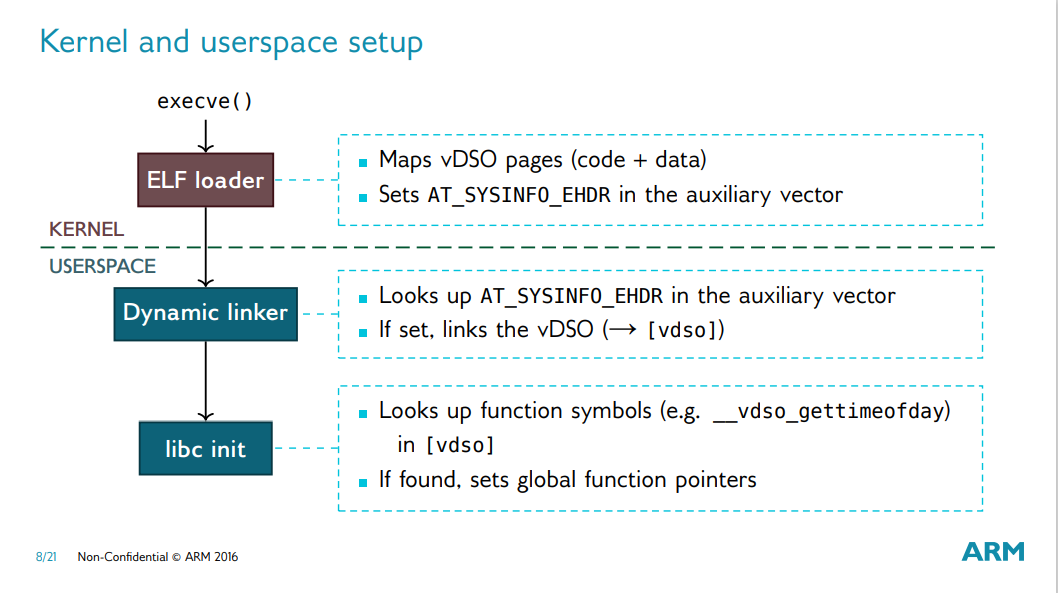
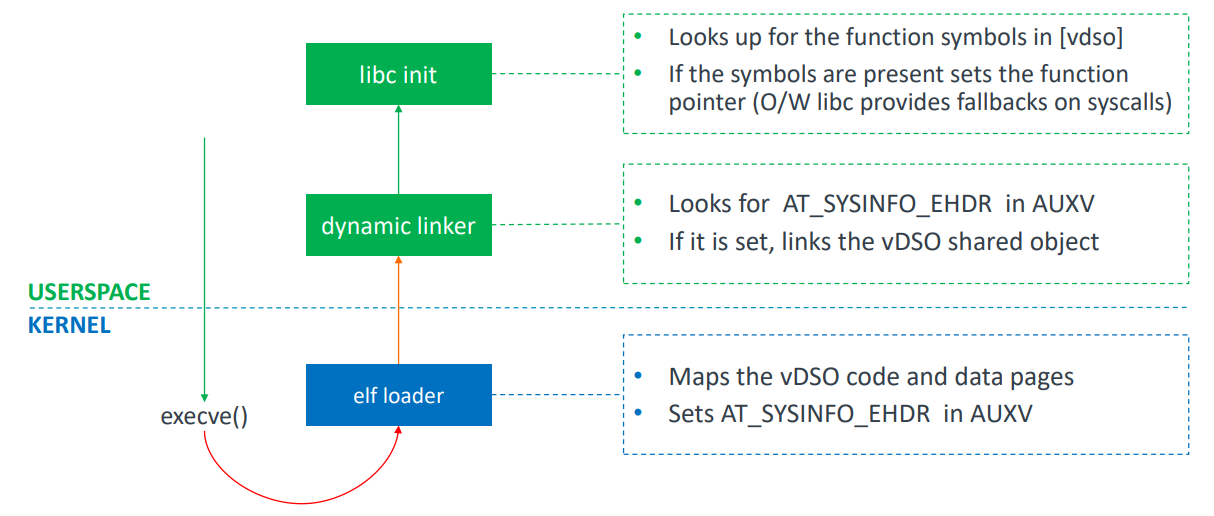
update vdso

diff --git a/content/post/RISC-V_vdso_2/index.md b/content/post/RISC-V_vdso_2/index.md
@@ -12,7 +12,7 @@ projects: []
 date: '2022-07-20T00:00:00Z'
 
 # Date updated
-lastmod: '2022-07-21T11:30:00Z'
+lastmod: '2022-07-25T11:30:00Z'
 
 # Is this an unpublished draft?
 draft: false
@@ -238,21 +238,251 @@ Symbol table '.dynsym' contains 9 entries:
      8: 0000000000000c68    10 FUNC    GLOBAL DEFAULT   11 __vdso_getcpu@@LINUX_4.15
 ```
 
+## vDSO 初始化
+
+vDSO 的初始化按照触发时机可以分为两部分：
+* 内核启动时初始化
+* 用户进程启动时初始化
+
+### 内核启动时初始化
+
+内核启动时初始化的主要是 `vdso_info` 这个内核对象。顾名思义，`vdso_info` 存储的是 vDSO 的一些信息，它的相关定义如下：
+```c
+// arch/riscv/kernel/vdso.c
+extern char vdso_start[], vdso_end[];
+
+struct __vdso_info {
+	const char *name;
+	const char *vdso_code_start;  // vdso 代码起始地址
+	const char *vdso_code_end;    // vdso 代码结束地址
+	unsigned long vdso_pages;     // vdso 代码部分所占内存页数
+	/* Data Mapping */
+	struct vm_special_mapping *dm;
+	/* Code Mapping */
+	struct vm_special_mapping *cm;
+};
+
+// include/linux/mm_types.h
+struct vm_special_mapping {
+	const char *name;	/* The name, e.g. "[vdso]". */
+
+	/*
+	 * If .fault is not provided, this points to a
+	 * NULL-terminated array of pages that back the special mapping.
+	 *
+	 * This must not be NULL unless .fault is provided.
+	 */
+	struct page **pages;
+
+	/*
+	 * If non-NULL, then this is called to resolve page faults
+	 * on the special mapping.  If used, .pages is not checked.
+	 */
+	vm_fault_t (*fault)(const struct vm_special_mapping *sm,
+				struct vm_area_struct *vma,
+				struct vm_fault *vmf);
+
+	int (*mremap)(const struct vm_special_mapping *sm,
+		     struct vm_area_struct *new_vma);
+};
+```
+
+`vdso_info` 的初始化代码如下：
+```c
+// arch/riscv/kernel/vdso.c
+static struct __vdso_info vdso_info __ro_after_init = {
+	.name = "vdso",
+	.vdso_code_start = vdso_start,
+	.vdso_code_end = vdso_end,
+};
+
+static int __init vdso_init(void)
+{
+	vdso_info.dm = &rv_vdso_maps[RV_VDSO_MAP_VVAR];
+	vdso_info.cm = &rv_vdso_maps[RV_VDSO_MAP_VDSO];
+
+	return __vdso_init();
+}
+
+static int __init __vdso_init(void)
+{
+	unsigned int i;
+	struct page **vdso_pagelist;
+	unsigned long pfn;
+
+	if (memcmp(vdso_info.vdso_code_start, "\177ELF", 4)) {
+		pr_err("vDSO is not a valid ELF object!\n");
+		return -EINVAL;
+	}
+
+	vdso_info.vdso_pages = (
+		vdso_info.vdso_code_end -
+		vdso_info.vdso_code_start) >>
+		PAGE_SHIFT;
+
+	vdso_pagelist = kcalloc(vdso_info.vdso_pages,
+				sizeof(struct page *),
+				GFP_KERNEL);
+	if (vdso_pagelist == NULL)
+		return -ENOMEM;
+
+	/* Grab the vDSO code pages. */
+	pfn = sym_to_pfn(vdso_info.vdso_code_start);
+
+	for (i = 0; i < vdso_info.vdso_pages; i++)
+		vdso_pagelist[i] = pfn_to_page(pfn + i);
+
+	vdso_info.cm->pages = vdso_pagelist;
+
+	return 0;
+}
+```
+
+初始化的时候将 `vdso_code_start` 和 `vdso_code_end` 分别赋值了 `vdso_start` 和 `vdso_end`。它们声明成了外部引用，实际上这两个变量的定义是在本文`共享库集成到内核`章节中提到的 `vdso.S` 中，表示了 vDSO 代码段的起始位置和结束位置。
+
+`dm` 和 `cm` 分别表示代码和数据部分的 `vm_special_mapping`（虚拟内存特殊映射对象）。
+
+### 用户进程启动时初始化
+
+![vdso_setup](vdso_setup.png)
+
+在 Linux 系统中，运行一个程序依赖 `fork` 和 `execve` 这两个系统调用。`fork` 会创建一个新进程并复制父进程的数据到新进程中；而 `execve` 则是解析 ELF 文件，将其载入内存，并修改进程的堆栈数据来准备运行环境。而 vDSO 的初始化功能也是在 `execve` 中完成的。
+
+```c
+// fs/exec.c
+SYSCALL_DEFINE3(execve,
+		const char __user *, filename,
+		const char __user *const __user *, argv,
+		const char __user *const __user *, envp)
+{
+	return do_execve(getname(filename), argv, envp);
+}
+```
+`SYSCALL_DEFINE3` 是定义系统调用的宏，详情可以参考本系列之前的文章[RISC-V Syscall 系列 2：Syscall 过程分析](../RISC-V_Syscall_2/index.md)。
+
+`execve` 会先经过如下函数调用到达 `load_elf_binary`：
+1. `do_execve`
+2. `do_execveat_common`：初始化环境和启动参数信息
+3. `bprm_execve`：打开文件，使调度器负载均衡等
+4. `exec_binprm`
+5. `search_binary_handler`：寻找文件格式对应的解析模块
+6. `fmt->load_binary()`：调用格式对应的载入函数
+
+而对于 ELF 文件来说，`load_binary` 就是 `load_elf_binary`，下面是 ELF 文件格式载入函数的初始化代码和 `load_elf_binary` 函数代码。
+
+```c
+// fs/binfmt_elf.c
+static struct linux_binfmt elf_format = {
+	.module		= THIS_MODULE,
+	.load_binary	= load_elf_binary,
+	.load_shlib	= load_elf_library,
+	.core_dump	= elf_core_dump,
+	.min_coredump	= ELF_EXEC_PAGESIZE,
+};
+
+static int load_elf_binary(struct linux_binprm *bprm)
+{
+  ...
+  retval = ARCH_SETUP_ADDITIONAL_PAGES(bprm, elf_ex, !!interpreter);
+  ...
+  retval = create_elf_tables(bprm, elf_ex,load_addr, interp_load_addr, e_entry);
+  ...
+}
+
+// include/linux/elf.h
+#define ARCH_SETUP_ADDITIONAL_PAGES(bprm, ex, interpreter) arch_setup_additional_pages(bprm, interpreter)
+```
+
+`load_elf_binary` 函数内容比较庞大，实现了加载 ELF 文件的核心逻辑。其中跟 vDSO 初始化相关的有如下两个函数：
+1. `arch_setup_additional_pages`
+2. `create_elf_tables`
+
+#### arch_setup_additional_pages
+
+`arch_setup_additional_pages` 是处理器架构相关的函数，里面主要调用了 `__setup_additional_pages`，它的主要功能是将 vDSO 的代码部分 (text) 和数据部分（vvar）载入用户内存。具体代码如下：
+```c
+// arch/riscv/kernel/vdso.c
+enum vvar_pages {
+	VVAR_DATA_PAGE_OFFSET,
+	VVAR_TIMENS_PAGE_OFFSET,
+	VVAR_NR_PAGES,
+};
+
+#define VVAR_SIZE  (VVAR_NR_PAGES << PAGE_SHIFT)
+
+int arch_setup_additional_pages(struct linux_binprm *bprm, int uses_interp)
+{
+  ...
+  ret = __setup_additional_pages(mm, bprm, uses_interp);
+  ...
+}
+
+static int __setup_additional_pages(struct mm_struct *mm, struct linux_binprm *bprm, int uses_interp)
+{
+  unsigned long vdso_base, vdso_text_len, vdso_mapping_len;
+  void *ret;
+
+  BUILD_BUG_ON(VVAR_NR_PAGES != __VVAR_PAGES);
+
+  vdso_text_len = vdso_info.vdso_pages << PAGE_SHIFT;
+  /* Be sure to map the data page */
+  vdso_mapping_len = vdso_text_len + VVAR_SIZE;
+
+  vdso_base = get_unmapped_area(NULL, 0, vdso_mapping_len, 0, 0);
+  if (IS_ERR_VALUE(vdso_base)) {
+    ret = ERR_PTR(vdso_base);
+    goto up_fail;
+  }
+
+  ret = _install_special_mapping(mm, vdso_base, VVAR_SIZE,
+    (VM_READ | VM_MAYREAD | VM_PFNMAP), vdso_info.dm);
+  if (IS_ERR(ret))
+    goto up_fail;
+
+  vdso_base += VVAR_SIZE;
+  mm->context.vdso = (void *)vdso_base;
+  ret =
+      _install_special_mapping(mm, vdso_base, vdso_text_len,
+    (VM_READ | VM_EXEC | VM_MAYREAD | VM_MAYWRITE | VM_MAYEXEC),
+    vdso_info.cm);
+
+  if (IS_ERR(ret))
+    goto up_fail;
+
+  return 0;
+
+up_fail:
+	mm->context.vdso = NULL;
+	return PTR_ERR(ret);
+}
+```
+
+首先计算 vDSO 映射需要占用的内存空间大小 `vdso_mapping_len`。它由 `vdso_text_len` 代码部分和 `VVAR_SIZE` 数据部分相加得到。`vdso_text_len` 很显然可以由 `vdso_info.vdso_pages` 代码段所占内存页数乘以内存页大小计算得到，而代码中 `vdso_info.vdso_pages << PAGE_SHIFT` 的计算可以达到相同的效果。而通过查看 `VVAR_SIZE` 的定义可知，目前内核给 vDSO 数据部分分配了两个内存页。
+
+然后调用 `get_unmapped_area` 内核接口在当前进程的用户空间中获取一个为映射区间的起始地址，其中第三个参数 表示获取的为映射空间的大小。
+
+然后调用 `_install_special_mapping` 将 vDSO 的数据部分映射到用户内存中。这里的第四个参数可以设置内存页的访问标记，这里可以简单理解为用户程序对 vDSO 的数据部分是只读的，具体分别设置了三个值：
+* VM_READ：内存页可读取
+* VM_MAYREAD：VM_READ 标志可被设置
+* VM_PFNMAP：Page-ranges managed without "struct page", just pure PFN
+
+最后再次调用 `_install_special_mapping` 将 vDSO 的代码部分映射到用户内存中，位置紧接着数据部分。与数据页标记不同，用户程序对代码部分是可读可执行的，具体设置了五个值：
+* VM_READ：内存页可读取
+* VM_EXEC：内存页可执行
+* VM_MAYREAD：VM_READ 标志可被设置
+* VM_MAYWRITE：VM_WRITE 标志可被设置
+* VM_MAYEXEC：VM_EXEC 标志可被设置
 
 
-## Architecture
+#### create_elf_tables
 
 
 
+## vDSO Read and Write
 
-### 内核初始化
 
-### 进程启动设置
 
-### 虚拟系统调用
-
-### 内核更新数据
-
+## 规范
 
 ## 相关 Patch
 
@@ -361,11 +591,9 @@ cat /proc/self/maps
 
 完善 RISC-V 上的 vDSO 支持的函数，现在只有 gettimeofday
 
-[1]: https://blog.linuxplumbersconf.org/2016/ocw/system/presentations/3711/original/LPC_vDSO.pdf
-[2]: https://mirrors.edge.kernel.org/pub/linux/kernel/v2.5/ChangeLog-2.5.53
-[3]: https://en.wikipedia.org/wiki/Address_space_layout_randomization
-[4]: https://man7.org/linux/man-pages/man7/vdso.7.html
-[5]: https://lwn.net/Articles/519085/
-
 参考资料
-- [什麼是 Linux vDSO 與 vsyscall？——發展過程](https://alittleresearcher.blogspot.com/2017/04/linux-vdso-and-vsyscall-history.html)
+
+
+
+[1]: https://lpc.events/event/7/contributions/664/attachments/509/918/Unified_vDSO_LPC_2020.pdf
+
